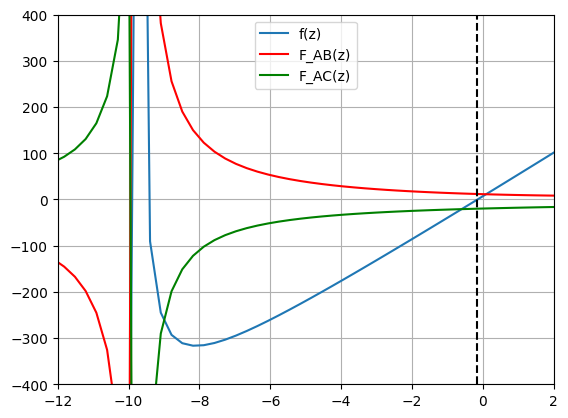
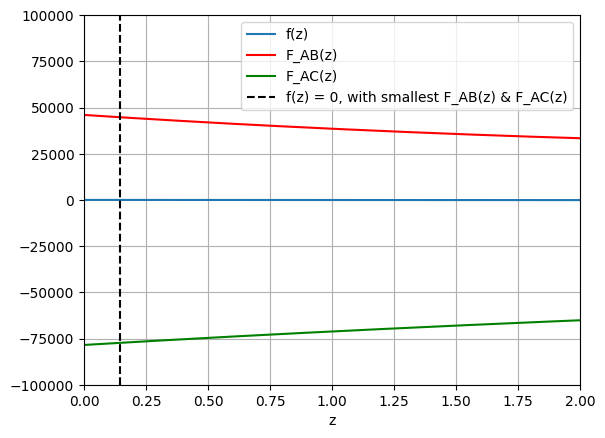
.

diff --git a/TME235 + TME226/Assignments_interactive.py b/TME235 + TME226/Assignments_interactive.py
@@ -34,66 +34,53 @@ def new_prob(num):
 new_prob(2)
 g = 9.81
 
-f = lambda z: 6/np.sqrt(11) * 1 / (9 + 12/13 * z) * (12 + 4 * np.sqrt(z**2 - 6*z +34)) + 48 * z
+f = lambda z: 6/np.sqrt(11) * 1 / (9 + (12/13) * z) * (12 + 4 * np.sqrt(z**2 - 6*z +34)) - 48 * z
 
 solution = fsolve(f, 0)
-# print(solution)
+print('solution to f(z) = 0:')
+print(solution)
 
-F_AB = lambda z: g * 6/np.sqrt(11) * 1 / (9 + 12/13 * z) * np.sqrt(z**2 - 6*z +34)
-F_AC = lambda z: F_AB(z) * 4 * np.sqrt(11) /13 * z / np.sqrt(z**2 - 6*z +34) - 2 * g
+F_AB = lambda z: m*g * 6/np.sqrt(11) * 1 / (9 + (12/13) * z) * np.sqrt(z**2 - 6*z +34)
+F_AC = lambda z: F_AB(z) * 4 * np.sqrt(11) /13 * z / np.sqrt(z**2 - 6*z +34) - 2 *m * g
 
-z_range = np.linspace(-20, 10, 100)
+a = 10 #m
+m = 4_000 #kg
+print('resulting cable forces at z_solution:')
+print('F_AB: ', F_AB(solution)/1000, 'kN')
+print('F_AC: ', F_AC(solution)/1000, 'kN')
+
+z_range = np.linspace(0, 50, 1000)
 
 title = 'A2'
 
 fig = plt.figure()
 plt.plot(z_range, f(z_range), label = 'f(z)')
-plt.plot(z_range,F_AB(z_range), 'red', label = 'F_AB(z)')
-plt.plot(z_range,F_AC(z_range), 'green', label = 'F_AC(z)')
-plt.axvline(x=solution, color='black', linestyle='--')
-plt.xlim (-12, 2)
-plt.ylim(-400, 400)
+plt.axvline(x=solution, color='black', linestyle='--', label='f(z) = 0, with smallest F_AB(z) & F_AC(z)')
+plt.xlim (0, 2)
+plt.ylim(-1000,1000)
+plt.xlabel('z')
+plt.ylabel('f(z)')
 plt.grid()
 plt.legend()
 plt.show()
-fig.savefig(title, bbox_inches = 'tight')
 
-
-
+fig = plt.figure()
+plt.plot(z_range, f(z_range), label = 'f(z)')
+plt.plot(z_range,F_AB(z_range), 'red', label = 'F_AB(z)')
+plt.plot(z_range,F_AC(z_range), 'green', label = 'F_AC(z)')
+plt.axvline(x=solution, color='black', linestyle='--', label='f(z) = 0, with smallest F_AB(z) & F_AC(z)')
+plt.xlim (0, 2)
+plt.ylim(-100_000, 100_000)
+plt.xlabel('z')
+plt.grid()
+plt.legend()
+plt.show()
 
 
 ##################################################
 # A3
 ##################################################
 new_prob(3)
-
-# a = np.array([1,2,3])
-# rot_matrix = lambda phi: np.array([[np.cos(phi), np.sin(phi),0], 
-#                                    [-np.sin(phi), np.cos(phi),0], 
-#                                    [0, 0, 1]])
-# e = np.array([[1,0,0], 
-#               [0,1,0], 
-#               [0,0,1]])
-
-# e_prim = lambda phi: rot_matrix(phi) @ e
-# a_prim = lambda phi: np.dot(e_prim(phi), e) * a
-
-# phi = np.linspace(0,2 * np.pi)
-# a_prim_values = np.array([a_prim(p) for p in phi])
-
-# title = 'A3_1'
-
-# fig2 = plt.figure()
-
-# plt.plot(phi, a_prim_values[:,0], 'blue', label = 'a1_prim')
-# plt.plot(phi, a_prim_values[:,1], 'red', label = 'a2_prim')
-# plt.plot(phi, a_prim_values[:,2], 'green', label = 'a3_prim')
-# plt.legend()
-# plt.show()
-# fig2.savefig(title, bbox_inches = 'tight')
-
-# a_1 = 1
-# a_2 = 2
 
 a = np.array([1, 2, 3])
 e = np.array([[1, 0, 0], 
@@ -121,11 +108,11 @@ fig = plt.figure()
 plt.plot(phi, a_1_prim_values, label = 'a1_prim')
 plt.plot(phi, a_2_prim_values, label = 'a2_prim')
 plt.plot(phi, a_prim_sum_values, label = 'a1_prim + a2_prim')
+plt.axvline(x=np.arctan(2), color='black', linestyle='--', label='maximum a1_prim')
+plt.axvline(x=np.arctan(-1/2) + 2* np.pi, color='grey', linestyle='--', label='maximum a2_prim')
+plt.xlabel(r'angle $\phi$')
 plt.legend()
-plt.axvline(x=np.arctan(2), color='black', linestyle='--')
-plt.axvline(x=np.arctan(-1/2) + 2* np.pi, color='black', linestyle='--')
 plt.show()
-fig.savefig(title, bbox_inches='tight')
 
 print('maximum values of a1_prim and a2_prim:')
 print('a1_prim:', 1*np.cos(np.arctan(2)) + 2* np.sin(np.arctan(2)))
